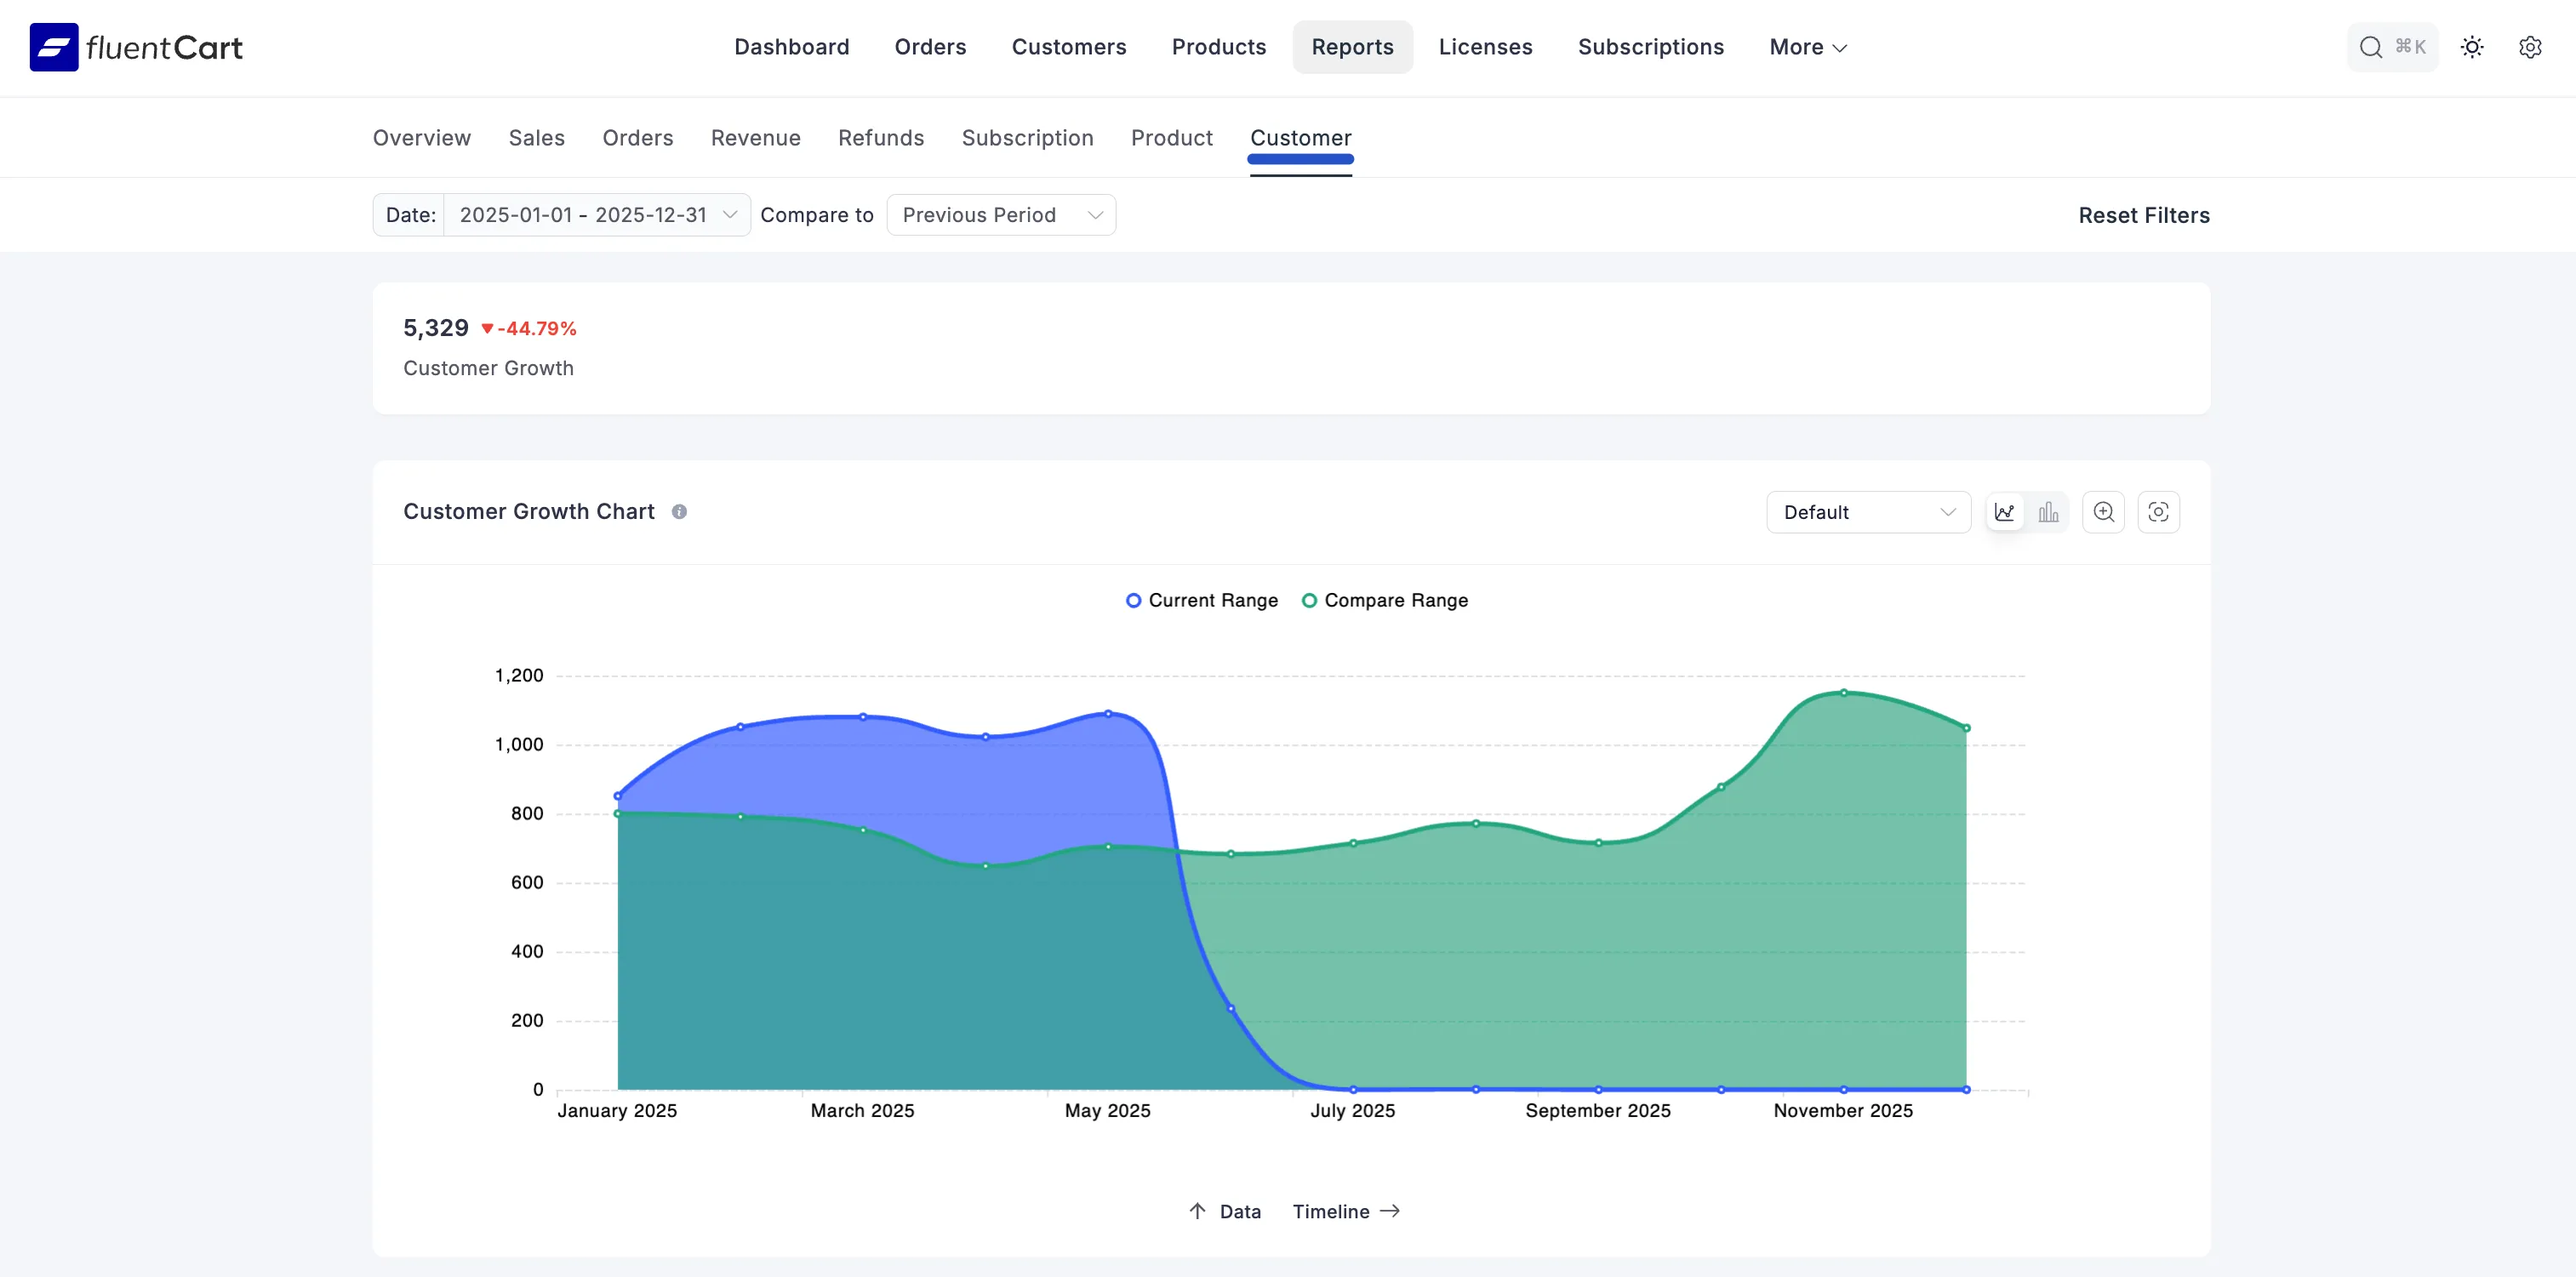
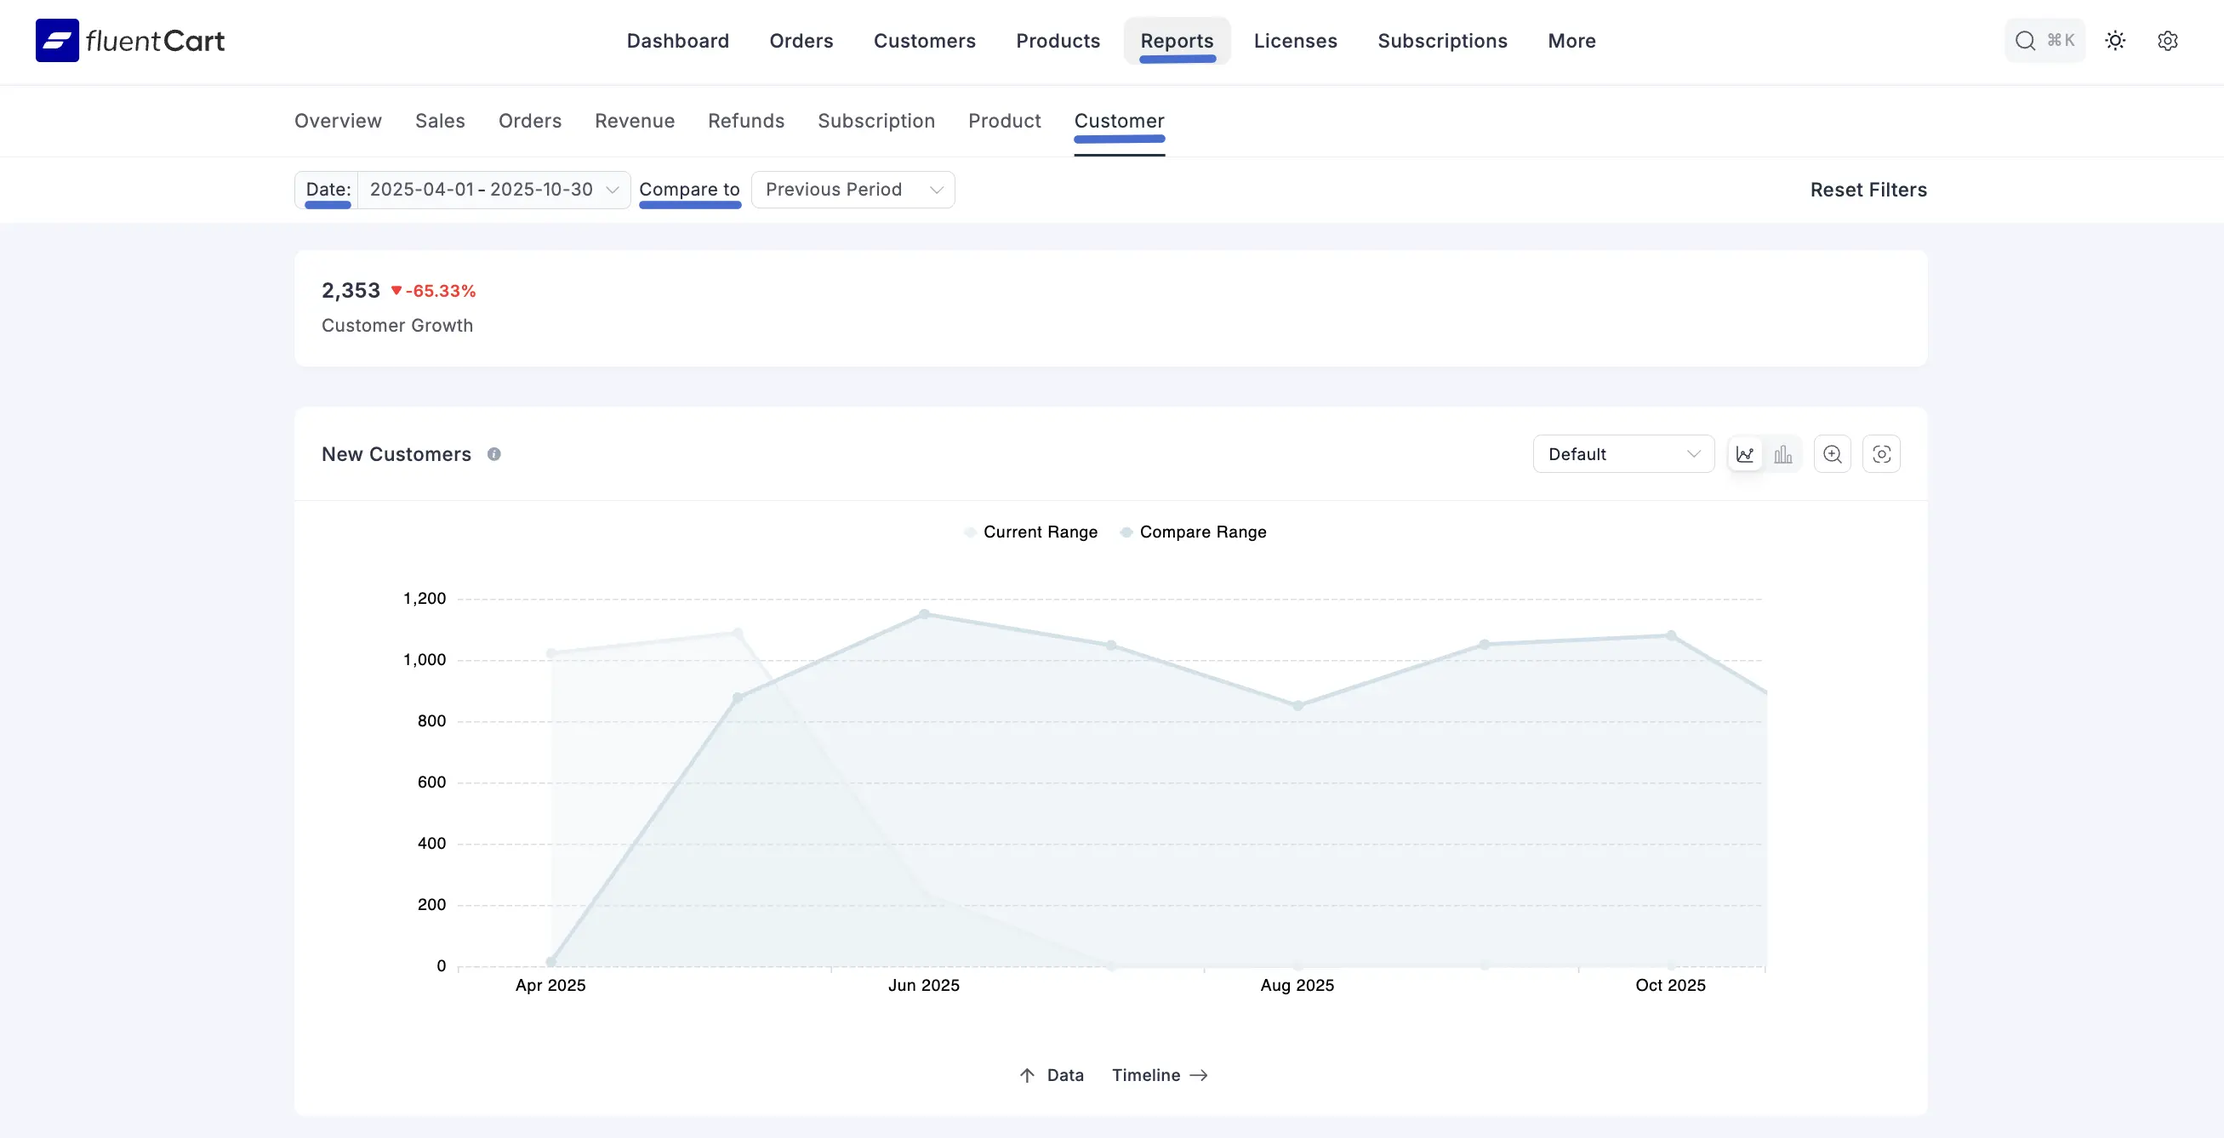
update Customer Report dashboard doc
Customer Report Dashboard doc description update and image change

diff --git a/guide/reporting-analytics/customer-report.md b/guide/reporting-analytics/customer-report.md
@@ -20,9 +20,9 @@ At the top of the Customer Report, you will find a summary card highlighting you
 
 * **Customer Growth:** This figure displays the net number of new customers acquired during the specified date range. The percentage indicates the growth or decline compared to the previous, equivalent time period you are comparing against.
 
-### Customer Growth Chart
+### New Customers
 
-The main visualization on this dashboard is the **Customer Growth Chart**. This is a powerful area chart that allows for easy trend analysis and comparison.
+The main visualization on this dashboard is the **New Customers**. This is a powerful area chart that allows for easy trend analysis and comparison.
 
 * **Visual Comparison:** The chart overlays two distinct areas—the **Current Range** (representing the period currently selected in the date filter) and the **Compare Range** (representing the historical period you are measuring against).
 * **Trend Analysis:** By showing the current period's customer acquisition alongside the past, you can quickly identify seasonal impacts, measure the success of specific marketing campaigns, and see if your acquisition rate is accelerating or slowing down.
